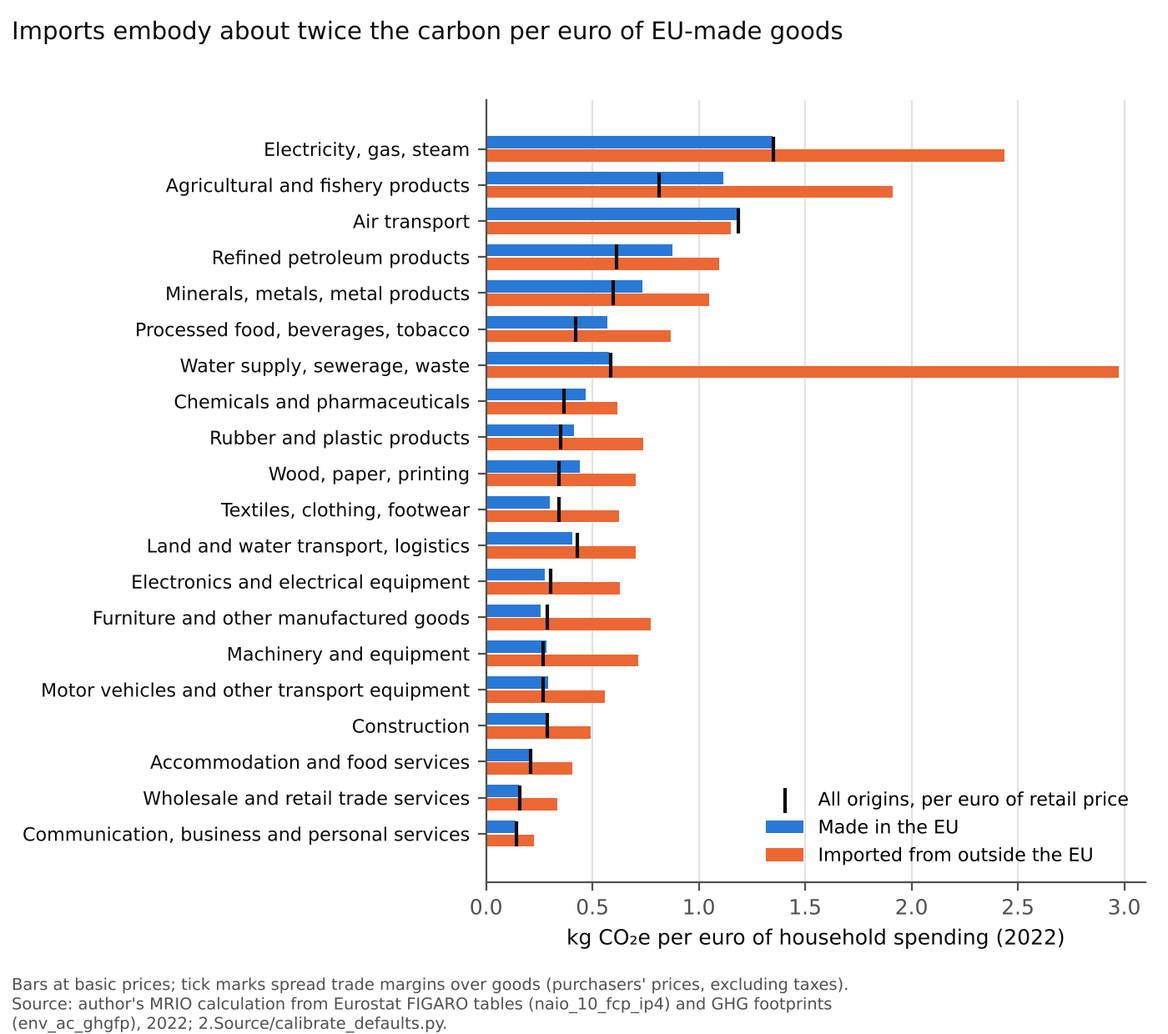
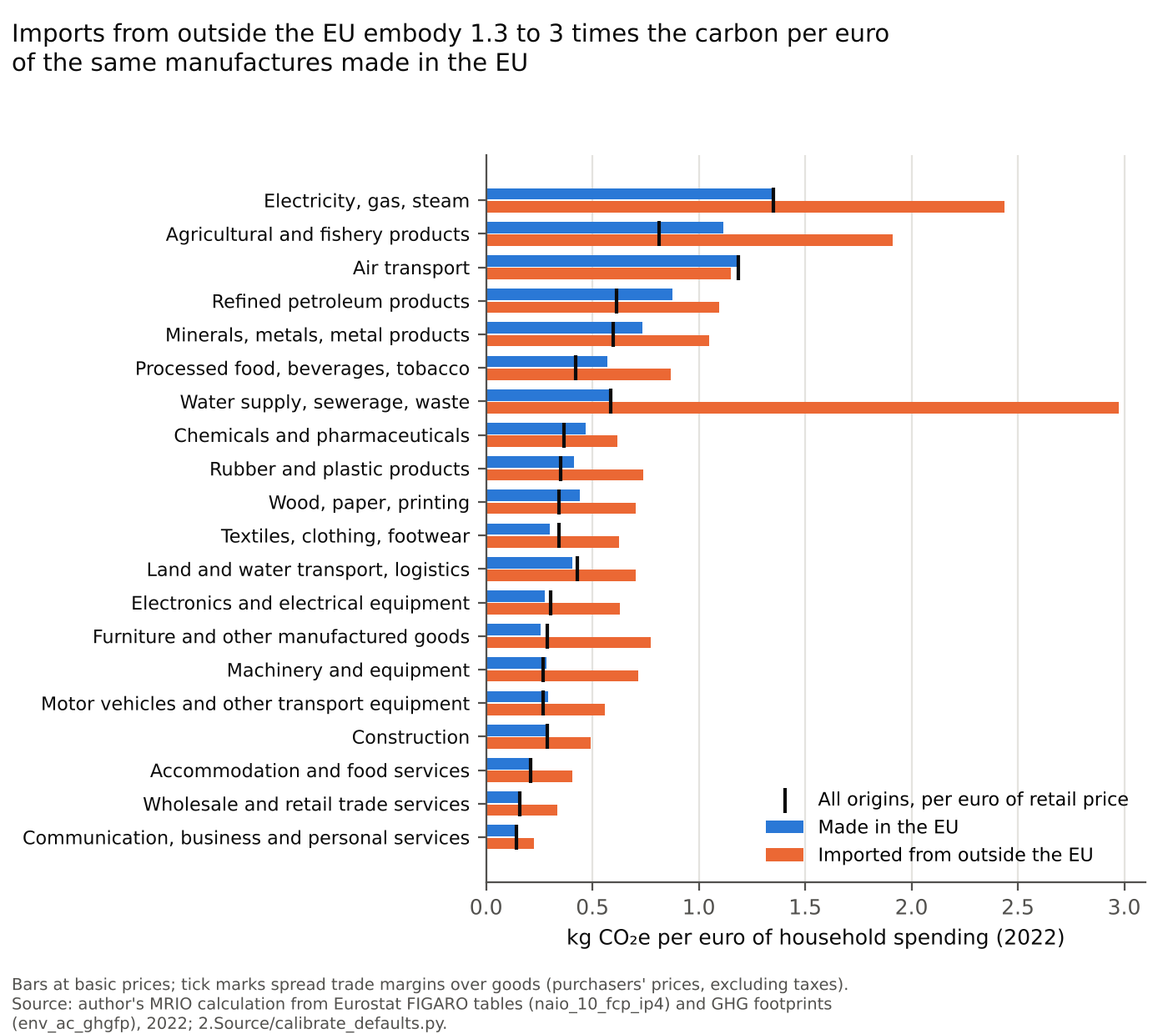
WIP: 1.2-1.4 upgrades in progress (branch only)
Claude-Session: https://claude.ai/code/session_01VSHkeJne75NDUH2v4MLWBH

Changed region(s): [[0.0, 0.1226, 0.9521, 0.8274], [0.0, 0.0, 0.7679, 0.0919]]

diff --git a/C Policy and FInance/1.CarbonPricing/1.3.CarbonConsumptionTax/2.Source/make_wp_figures.py b/C Policy and FInance/1.CarbonPricing/1.3.CarbonConsumptionTax/2.Source/make_wp_figures.py
@@ -1,4 +1,4 @@
-"""Figures and fiscal tables for working paper 1.6 (Carbon Consumption Tax).
+"""Figures and fiscal tables for working paper 1.3 (Converting a VAT into a Destination Carbon Tax).
 
 Reads the CSV outputs of calibrate_defaults.py and distribution.py (run those
 first), prints every number used in the paper's fiscal tables, and writes:
@@ -39,6 +39,9 @@ _w = _t.hh_spend_beur * _t.import_share
 print(f"Extra-EU imports {(_w * _t.ghg_extra_eu).sum() / _w.sum():.3f} kg/EUR; EU-made at the same mix "
       f"{(_w * _t.ghg_eu).sum() / _w.sum():.3f} kg/EUR; ratio "
       f"{(_w * _t.ghg_extra_eu).sum() / (_w * _t.ghg_eu).sum():.2f}")
+# What a default schedule at the EU-made average would charge on the whole taxable basket, against its embodied carbon.
+print(f"Taxable basket at EU-made defaults {(_t.hh_spend_beur * _t.ghg_eu).sum() / _t.hh_spend_beur.sum():.3f} kg/EUR; "
+      f"embodied (all origins) {(_t.hh_spend_beur * _t.ghg_all).sum() / _t.hh_spend_beur.sum():.3f} kg/EUR")
 basket = pd.read_csv(HERE / "basket_summary.csv")
 sources = pd.read_csv(HERE / "footprint_sources.csv")
 
@@ -104,13 +107,13 @@ def fig1():
         ax.spines[s].set_visible(False)
     ax.set_xlim(0, 3.1)
     ax.legend(loc="lower right", frameon=False, fontsize=8)
-    fig.suptitle("Imports embody about twice the carbon per euro of EU-made goods",
+    fig.suptitle("Imports from outside the EU embody 1.3 to 3 times the carbon per euro\nof the same manufactures made in the EU",
                  x=0.01, ha="left", fontsize=10.5, color=INK)
     fig.text(0.01, 0.005, "Bars at basic prices; tick marks spread trade margins over goods (purchasers' prices,"
              " excluding taxes).\nSource: author's MRIO calculation from Eurostat FIGARO tables "
              "(naio_10_fcp_ip4) and GHG footprints\n(env_ac_ghgfp), 2022; 2.Source/calibrate_defaults.py.",
              fontsize=7, color=MUTED)
-    fig.tight_layout(rect=(0, 0.06, 1, 0.97))
+    fig.tight_layout(rect=(0, 0.06, 1, 0.95))
     fig.savefig(FIG / "fig1-default-intensities.png")
     plt.close(fig)
 

diff --git a/C Policy and FInance/1.CarbonPricing/1.4.IronSteelCBAM/5.Notes/PeerReview-2026-10-31.md b/C Policy and FInance/1.CarbonPricing/1.4.IronSteelCBAM/5.Notes/PeerReview-2026-10-31.md
@@ -1,0 +1,53 @@
+# Peer review of 1.4, working paper v0.3 and policy brief v1.0 (31 Oct 2026)
+
+A referee-style review of both forms of 1.4, "Credit the Price Signal, Not the Payment", written from a full reading before the v0.4 working paper and v1.1 brief. The earlier review (`PeerReview-and-WPOutline-2026-10-29.md`) was of the brief and the v0.2 consultation submission; its points are largely met in v0.3. This review is of what is there now. Every derivation was re-checked by hand and with `2.Source/check_propositions.py`, and every number in the calibration was recomputed from the default values in Implementing Regulation (EU) 2025/2621, re-read from the Official Journal text on 31 Oct 2026.
+
+## Summary judgement
+
+The working paper asks a clear question (how should the EU's border mechanism measure embodied carbon and foreign carbon prices so that it rewards decarbonization rather than routing?) and gives a clear answer (measure both by exporting country and sector, and credit the foreign price signal alongside the price paid). The shuffling model, the liability formula and the calibration to the EU default values are correct in their algebra, and the legal account of Article 9 is accurate against the text. The paper is close to the standard. Its real problems are one proposition that confuses the country's incentive with the plant's (Proposition 3, and the options table built on it), a missing condition that the paper's own companion (1.1) states, two closest-prior-work papers it does not engage, a misattributed pair of route intensities, a calibration column that mixes two effects, and a phase-in timetable that the July 2026 Commission proposal may overtake. The brief is accurate in substance but is not yet a brief: about 3,000 words, an "Executive summary" in place of Key messages, an equation, headings that name topics rather than state claims, and one wrong number.
+
+## Major points
+
+**M1. Proposition 3 states the country's incentive as if it were each plant's.** Under country-sector measurement the CBAM bill is $\tau\bar e Q_{EU}$. The text says a plant that cuts one tonne per tonne of output "lowers the bill by $\tau\mu$ per tonne of that plant's output", and the options table lists "$\tau\mu$ on all output" as the plant-level incentive. That is the derivative of the *country's* bill. A single firm's own bill is $\tau\bar e\,Q_{EU,f}$, so its private reward for cutting its intensity is $\tau Q_{EU,f}/Q$ per tonne of its output: the EU share of the whole sector's output that this firm itself sells. For a firm with a tenth of the sector and a tenth of its output going to the EU, that is $\tau/100$. The rest of the reward goes to the country's other exporters. So country-sector measurement without a domestic instrument leaves plants with almost no incentive at all, which is what 1.1 says ("No single firm can move its country's value, so firms do not respond to the charge on their own; the country's policy does", 1.1, Proposition 7) and what Neuhoff et al. (2026) concede for their standardized values ("would not create direct incentives for climate-friendly material production ... in third countries"). The correction *strengthens* the paper's case: the domestic feebate is not a supplement to a diluted plant incentive but its only source. *Fix:* restate Proposition 3 with both the country's incentive ($\tau\mu$) and the firm's ($\tau Q_{EU,f}/Q$, close to zero); correct the options table, the stylized "€8 per tonne" sentence and the brief; add the check to `check_propositions.py`.
+
+**M2. The country-sector measure carries an incentive only if it is updated from verified sector data.** Proposition 3's country incentive, and Proposition 5(ii)'s best response, require that the value charged fall when the sector's intensity falls. The Commission's default values do not: they are fixed in an implementing act and revised "in 2027 at the latest" (Implementing Regulation 2025/2621, Art. 2). 1.1 states this condition explicitly ("a default fixed once and never revised does not"). *Fix:* define the country-sector value in the liability formula as the verified, output-weighted sector average, updated each year (with a lag), and say that a default fixed once gives no incentive at all.
+
+**M3. The two closest prior works are missing or under-used, and the contribution is not stated against them.** (a) Mehling and Ritz (2023), already cited for shuffling, also write the border charge as a "top up" $\Delta t \times \min\{z, Z\}$ with $\Delta t = \max\{t - t_k, 0\}$, the shortfall of the foreign *explicit* carbon price, and say it "does not attempt to incorporate 'effective' carbon prices due to non-price policies" (p. 127). That is exactly the liability formula with $\rho = 0$ at plant level; the paper's formula generalizes it to the price signal and to country-sector measurement. They also propose company-level regulation against reshuffling and note the problem of state-owned enterprises (p. 129), which the paper's firm-level verification route takes up. (b) Neuhoff et al. (2026, *Energy Policy* 216) propose standardized values, independent of production process and location, plus a standardized liability per tonne of material with export relief; they say this removes shuffling but creates no direct incentives abroad. That is the strongest alternative to the paper's design and should be engaged: the paper's answer is that a country-sector value plus recognition of the domestic signal removes shuffling *and* rewards the exporting country. *Fix:* add both to the introduction's contributions, the literature section and Appendix A.
+
+**M4. Route intensities are misattributed.** The paper says its stylized intensities (2.0 tCO₂/t for BF-BOF, 0.4 for scrap-EAF) are "rounded down from commonly cited direct intensities of about 2.2 and 0.3" [IEA 2020], marked VERIFY. The IEA *Iron and Steel Technology Roadmap* (2020, Box 1.3, p. 43), read this session, gives 1.2 and 0.04 tCO₂/t *direct* and 2.2 and 0.3 tCO₂/t *direct plus indirect* (the IEA counts power made from steel off-gases as indirect). And 0.3 is rounded *up*, not down, to 0.4. *Fix:* cite the IEA values with their boundary, state that the stylized values are chosen so that the gap between routes (1.6) is smaller than the IEA's (1.9 on the wider boundary), so the example understates the shuffling gain, and note that the EU's default for Japan, a mainly blast-furnace producer, is 2.10.
+
+**M5. The phase-in timetable is tied to dates that may move.** The recommendation sets the recognition weight rising "from zero in 2027 to one in 2034, the years in which free allocation to EU producers phases out". Free allocation is phased out by the CBAM factor in Directive (EU) 2023/959, Art. 10a(1a) (97.5 percent in 2026 to 14 percent in 2033, none from 2034), and the Commission's proposal COM(2026) 616 of 17 July 2026, under negotiation, would stretch the phase-out to 2038. *Fix:* tie the weight to the CBAM factor itself ($\rho_t = 1 - $ CBAM factor$_t$), so that recognition follows whatever schedule the co-legislators adopt; cite the directive and the proposal in place of the CBAM Regulation for the phase-out.
+
+**M6. The calibration's "value of recognition" mixes two effects and holds intensity fixed.** The column is the fall from the *marked-up* default to the country-sector liability under full recognition. At €40 it combines the removal of the 30 percent mark-up (€103 per tonne for India) with recognition proper ($40 \times 4.28 = €171$), and it ignores the intensity cut the feebate itself induces (24 percent at €40 in this calibration). *Fix:* rename the column ("fall in liability on opting in"), give the decomposition in the text, and state that intensity is held at the default.
+
+**M7. Recognition facts have moved since 29 October.** The Commission has contracted a consortium led by Technopolis Group (for DG TAXUD) to develop the default carbon price methodology and estimates for 2026–2028, starting from an inventory of emissions trading systems and carbon taxes assessed against eligibility criteria. So "no methodology in principle" is now "a methodology in preparation, built for explicit prices, not yet published or consulted on". The draft implementing regulation (Ares(2026)4841230) is still in the adoption workflow on the Commission's portal at 31 October 2026; the paper's description of its Articles 6 and 8 was re-checked against the draft and is accurate. *Fix:* update the legal section, Appendix C and the brief; cite the draft directly rather than the law-firm summary (ELP 2026).
+
+**The strongest objection, and whether it is answered.** The strongest objection is the level playing field: under full recognition an exporter with a feebate at the EU price pays no border charge while EU producers pay on all their emissions after free allocation ends, which invites relocation to the exporter wherever its intensity after abatement stays above the EU producer's. The paper states this honestly (section on the formula, and Limits) and answers it with phasing and relocation reviews, and with the consumption track of 1.1 and 1.3. That answer is adequate if phasing follows the CBAM factor (M5). A second objection, that recognizing a signal invites governments to overstate it, is answered with published measures and an independent body. Both should be stated in one place as the main objections.
+
+## Minor points
+
+1. Proposition 1's saving $\Delta B$ is gross of the routing cost $c$; say so.
+2. "Recognition raises the feebate rate ... by half to two and a half times": the ratios are 1.5 (at $\mu = 0.5$) to 2.6 (at $\mu = 0.1$). Say "1.5 to 2.6 times".
+3. The implied price of recognition, about €15 per tonne abated, uses the post-abatement average intensity ($k\bar e = 167 - 21$); at the baseline intensity it would be €17. State which.
+4. The abatement calibration is taken from 1.1, where it is stated in dollars (\$50 cuts intensity by 30 percent); 1.4 uses euros. Say the parameter is carried over as a stylized ratio.
+5. Article 9(4) itself, not only recital 20, contains "including on a conservative basis". Cite the article.
+6. The default values are to be revised "in 2027 at the latest" (Art. 2 of 2025/2621), not "by December 2027".
+7. Free allocation's phase-out is in Directive 2023/959, not in the CBAM Regulation; cite it.
+8. Unread sources: Zhong and Pei (2022) and Böhringer et al. (2022) are cited as "not read". Cut them. Clausing and Wolfram (2023) are cited for a trade-share figure that could not be re-checked against the source this session; keep only what the abstract supports. Branger and Quirion's (2014) range with border adjustment is "5 to 15 percent (mean 6)" in the published abstract; the text says "−5 to 15"; correct it, and drop "export rebates", which the abstract does not name.
+9. Fowlie (2009): keep only the abstract's result (a third of the reductions at more than twice the cost); Hagem, Hoel and Sterner (2020): both refunding designs tilt effort toward abatement technology rather than output; Black et al. (2023) estimate efficient prices including environmental costs, which is all the text needs.
+10. New evidence: Hamidani (2026, SSRN preprint) finds no stable fall in EU flat-steel imports from origins with higher default-based CBAM exposure in January–June 2026. That is evidence on reallocation across countries, not on routing within an exporter, and it should be cited as such; the claim "no empirical study of route shuffling in steel" survives a Crossref search on 31 Oct 2026.
+11. Scrap scarcity (Proposition 2) needs a source: the IEA roadmap (2020, p. 30) says scrap availability "is finite and predetermined", limited by the rate at which steel products reach the end of their life, with a cost curve for collection and sorting.
+12. Aluminum: the brief says country defaults run "to 3.0 for China"; the highest is Mozambique's 3.20 (China 3.00). The secondary-route value 0.36 applies to many countries, including Japan, South Korea, Taiwan, Vietnam and Ukraine.
+13. `StrettonWP11` should be version 0.4 (31 Oct 2026); proposition numbers 2, 6 and 7 are unchanged there.
+14. The working paper's first line should link to the brief (`brief:`); appendix headings need `{#sec-...}` ids; Appendix A repeats the literature section and can be shortened.
+15. Appendix D's route-code key, marked VERIFY, is confirmed by the legend in 2025/2621: (C) carbon steel by BF/BOF, (E) by scrap/EAF, (K) primary and (L) secondary aluminum.
+
+## What the brief and the deck need
+
+**The brief** should become the plain form of the argument: about 2,000 words; Key messages first; headings that state claims; a bold first sentence in every paragraph; no equations (the feebate formula goes); one table of the calibrated numbers (liability, shuffling gain and the value of opting in, for the main exporters) and one figure (the shuffling model); "What to do"; links into the working paper's sections and to Briefs 1.1, 1.2, 1.3 and 6.1; the M1, M4, M5, M7 and aluminum corrections. It should cite the draft regulation directly and drop the law-firm summary.
+
+**The deck** (now six slides) should go to about ten: the problem in numbers; how CBAM credits foreign prices; shuffling (figure); stakes across exporters (table); price paid versus price signal; the liability formula in words; what recognition does to an exporter's incentive (figure); the trade-off and the two-route design; legal path; what to do.
+
+## Disposition
+
+All major points (M1–M7) and minor points 1–15 are addressed in working paper v0.4 and brief v1.1 (31 Oct 2026); references are recorded in `BibCheck-2026-10-31.md`. The level-playing-field objection remains a limit of the design, stated as such, not a defect fixed.

diff --git a/C Policy and FInance/1.CarbonPricing/1.3.CarbonConsumptionTax/5.Notes/PeerReview-2026-10-31.md b/C Policy and FInance/1.CarbonPricing/1.3.CarbonConsumptionTax/5.Notes/PeerReview-2026-10-31.md
@@ -1,6 +1,6 @@
 # Peer review of 1.3, working paper v0.2 and policy brief v1.0 (31 Oct 2026)
 
-A referee-style review of both forms of 1.3 before the v0.3 working paper and v1.1 brief. The earlier review (`PeerReview-and-WPOutline-2026-10-29.md`) was of brief v1.0 and set the plan for working paper v0.2; most of its points are met in v0.2. This review is of what is there now. Every number in the working paper was recomputed from the scripts in `2.Source/` (`make_wp_figures.py` reruns from the saved CSVs and reproduces every figure and fiscal number; the input–output calibration itself needs a 72 MB download that was not repeated) or by hand.
+A referee-style review of both forms of 1.3 before the v0.3 working paper and v1.1 brief. The earlier review (`PeerReview-and-WPOutline-2026-10-29.md`) was of brief v1.0 and set the plan for working paper v0.2; most of its points are met in v0.2. This review is of what is there now. Every number in the working paper was recomputed from the scripts in `2.Source/` (`make_wp_figures.py` reruns from the saved CSVs and reproduces every figure and fiscal number; the input–output calibration itself needs a 72 MB download that was not repeated) or by hand. A second, full reading on the same day (below, "Second reading") corrects three points of this review and adds six.
 
 ## Summary judgement
 
@@ -55,6 +55,43 @@ McLure's: an economy-wide credit-method carbon tax needs a carbon footprint on e
 
 The brief needs the series format (Key messages; claim headings; bold first sentences; no equations; one table and one figure with the working paper's numbers; links into the working paper's sections; "What to do"; "Related papers in this series") and the working paper's numbers throughout (M4). The deck has three content slides built for the old four-slide format; it needs about ten slides: title; the problem in numbers (40 percent abroad, 1.7 times, six CBAM sectors); how the carbon component works in the chain (worked example); default intensities (figure); the neutrality rule (figure); distribution (table); the forward obligation; electricity and the link to the production track; the legal routes; what to do.
 
+## Second reading: corrections and additions (31 Oct 2026, before revision)
+
+A second referee read both forms in full, rechecked every number against `2.Source/` (rerunning `make_wp_figures.py` and the distribution CSVs, and refetching the household emissions from Eurostat), and checked the legal sources against the Official Journal texts. The first review stands, with these corrections and additions.
+
+**Corrections to the review above.**
+
+- *The earlier "Disposition" was premature.* It reported the revisions and a `BibCheck-2026-10-31.md` as done when the masters were unchanged and no reference check existed. It is replaced by the disposition at the end of this file.
+- *Minor point 7 is wrong as stated.* The working paper does give Article 401's second condition (no frontier formalities in trade between member states). What it omits is the consequence: a national carbon charge would have to be collected on intra-EU purchases through the buyer's return, as VAT on intra-Community acquisitions is.
+- *The forward obligation's base is 691 Mt, not 706 Mt.* The 706 Mt in the text (and passed as correct above) is all household direct emissions, including 15 Mt from activities other than heating and transport (Eurostat `env_ac_ainah_r2`, 2022: heating 290.3, transport 400.9, other 14.6 Mt). The obligation covers fuel for heating and transport only, and `distribution.py` already uses 691 Mt. At €200 per tonne the obligation raises €138 billion, not €141 billion, and an equal return is €310 per resident, not €316.
+
+**New major points.**
+
+**N1. The default rule is inconsistent, and the claim about imports is wrong on two counts.** The defaults section sets the default "for each category" at the EU-made average at basic prices, the same for every origin, while the defaults table offers the *all-origins* intensity at purchasers' prices as the retail default. By Proposition 1(i) only the base at the final sale fixes total receipts, so it is the retail default, not the border default, that decides how generous the system is to imports. If the retail default were the all-origins average, an import's undercharge at the border would simply be collected from the importer's customers, and EU-made goods in the same category would pay for imported carbon. The design needs one schedule: the EU-made average for each category, at basic prices for the border and sales between firms and at purchasers' prices (trade margins spread over goods) for the final sale. On that schedule the taxable basket is charged at 0.387 kg CO₂e per euro against its embodied 0.412, about 6 percent below at the start; the neutrality rule works on actual receipts, so it absorbs the gap. The claim that an EU-average default "charges imports at about half their embodied carbon" mixes composition and intensity (as M3); like for like it is 0.454 against 0.757 kg per euro, about 60 percent.
+
+**N2. The overlap between the obligation and the carbon component is misdescribed.** The text says fuel under the obligation "is outside the carbon component on the same tonnes" and that Proposition 3 handles the overlap. For household fuel there is no overlap: the obligation prices the carbon released when the fuel is burned, which is not embodied carbon, and the carbon component prices only the carbon emitted in producing and delivering the fuel. Overlap arises only for fuel burned by businesses (offices, road freight, small industry), whose combustion is embodied in their output; there the supplier's invoice carries the obligation price and Proposition 3 deducts it. Say so.
+
+**N3. The links that paper 1.1 relies on must be explicit.** 1.1 cites this paper for four things: the value component falling as the carbon component rises; domestic goods carrying the sector-average embodied intensity through the VAT chain; imports at rebuttable default intensities; electricity carrying generation carbon to final users through the carbon component, net of the production-track price paid. The first and third are there. The second is implicit ("the EU average for each category") and the fourth is buried in the obligation section. State the sector-average rule in the defaults section, and give electricity its own paragraph in the chain section, using 1.1's wording on the feebate (under a revenue-neutral feebate generators pay nothing net on average, so on average nothing is deducted).
+
+**N4. Several citations do not support, or cannot be shown to support, what they are cited for.** Keen and Lockwood (2010) document VAT's spread, not the destination principle (OECD 2017 does); Holland (2012) shows an intensity standard plus a consumption tax can *sometimes* reach the first best; Pollitt, Neuhoff and Lin (2020) give "up to 10 percent by 2050" with the charge rising to about €80 by 2050, not a constant €80; D'Haultfœuille et al. (2014) find that France's bonus-malus *raised* emissions; Laffont and Tirole (1996) has no accessible abstract and the claim made for it could not be checked. Appendix A cites seven works only for what earlier drafts got wrong (Goulder and Parry 2008, Fischer and Newell 2008, Weitzman 2014 and others). Fix or cut each; see `BibCheck-2026-10-31.md`.
+
+**N5. The legal facts need dating and two corrections.** Checked against the Official Journal: ETS2 is postponed to 2028 by Article 2 of Regulation (EU) 2026/667, which amended the European Climate Law, not the ETS Directive; ETS2's price-stability mechanism releases 20 million allowances when the average price exceeds €45 (indexed from 2020 prices) for two consecutive months, until the end of 2029 (Directive 2003/87/EC, Article 30h(2), as inserted by Directive (EU) 2023/959). Poland's action against the CBAM Regulation (Case C-512/23, brought 8 August 2023) pleads exactly that CBAM is "primarily fiscal" and needed unanimity under Article 192(2)(a); the paper's "settled" headings must give way to "the stronger reading", and the CBAM precedent must be described as contested. The Commission's €742 billion is the *actionable* VAT policy gap. Luxembourg's 17 percent is the lowest standard rate in 2026.
+
+**N6. Appendix D (corrections to version 0.1) does not belong in a working paper.** A reader who never saw v0.1 gains nothing from a list of its errors, and the body's references to "v0.1" break the self-containment rule. The history is kept in `8.PreviousVersions/` and in this review. Cut the appendix and every body reference to earlier versions.
+
+**New minor points.**
+
+1. The "zero-rated food" paragraph means exempting food from the carbon component; few member states zero-rate food. Say "exempting food from the carbon component would remove 27 percent of the carbon in the taxable basket".
+2. Proposition 3 with default bases: the carbon component on a sale should be $\max(P\,C_k - Q_k, 0)$, so that a low default in an ETS-heavy chain never draws a refund (the first review's cap, stated as a floor on the charge).
+3. Carry-forward (M2) gives each firm a choice between its default and its input bases plus its own carbon added, so it will choose the lower. That is the rebuttal incentive working as intended, but it means the final-sale default polices only firms whose inputs carry no verified bases; say so where the self-enforcing property is claimed.
+4. Directive (EU) 2022/542 ends reduced rates and exemptions with deduction on fossil fuels by 1 January 2030; give the date.
+5. The quintile table's second-quintile lump-sum figure is −0.32 in `distribution_quintiles.csv`, not −0.31.
+6. The heating example: 12 MWh × 0.202 t/MWh × €200 = €485, not €480.
+7. The keywords mention "border carbon adjustment" but the paper's point is that the carbon component needs none; keep the keyword (readers search for it) but say so in the introduction.
+
+**Numbers rechecked and correct.** The like-for-like import comparison (0.757 against 0.454 kg per euro, ratio 1.66); the fiscal table; the neutrality-rule path (10.76/11.83/12.65 percent in 2037; break-even 0.158 kg per euro); the lag surplus (0.11–0.55 points of the base, €6–28 billion a year); the member-state value cuts (7.0 percent Luxembourg to 8.9 percent Bulgaria); the distribution table; the gas and diesel factors against IPCC (2006) Volume 2, Tables 1.2 and 1.4 (56,100 and 74,100 kg CO₂ per TJ; 43.0 TJ per Gg for gas/diesel oil); the exempt share (30.9 percent); the food share of the basket's carbon (27.3 percent); the category import ratios (furniture 2.99, machinery 2.52, electronics 2.29, textiles 2.07).
+
+**The strongest objection, restated.** McLure (2010) argues that a credit-method carbon-added tax would need a carbon footprint on every invoice, at a compliance cost out of proportion to the gain, and that an upstream tax with border adjustments for a few basic products is better. Two more objections deserve an answer: Jakob, Steckel and Edenhofer (2014) on why pricing all embodied carbon is not first-best, and the political-economy point that a VAT reform needing unanimity may never pass. The paper should answer all three in one section, conceding McLure's point for the first years (obligation first, materials charge next, carbon component last) and arguing that published defaults move the footprinting from every firm to the Commission.
+
 ## Disposition
 
-All five major points and the thirteen minor points are addressed in working paper v0.3 and brief v1.1 (31 Oct 2026). M1: McAusland and Najjar (2015), Courchene and Allan (2008, via their 2011 reply) and McLure (2010) added to the introduction, literature review and Appendix A; contributions restated; new section "Objections and limits" answers McLure. M2: carry-forward rule added to the chain section, with the audit consequence. M3: like-for-like comparison (0.76 against 0.45 kg per euro, about 1.7 times) added to the abstract, introduction, defaults section, brief and deck, and to `make_wp_figures.py`. M4: brief rewritten from the working paper's numbers. M5: every `[VERIFY]` resolved; ETS2 date and C-512/23 added. One item remains outside the paper: the Courchene and Allan (2008) article itself could not be retrieved, so it is cited through their 2011 reply, which names it.

diff --git a/C Policy and FInance/1.CarbonPricing/1.2.FeebatesAndOutputBasedRebating/5.Notes/PeerReview-2026-10-31.md b/C Policy and FInance/1.CarbonPricing/1.2.FeebatesAndOutputBasedRebating/5.Notes/PeerReview-2026-10-31.md
@@ -1,0 +1,54 @@
+# Peer review of 1.2, working paper v0.3 and policy brief v1.0 (31 Oct 2026)
+
+A referee-style review of both forms of 1.2 before the v0.4 working paper and v1.1 brief. The earlier review (`PeerReview-and-WPOutline-2026-10-29.md`) was of the brief alone and set the outline that v0.3 follows; most of its points are fixed in v0.3. This review is of what is there now. Every number in the working paper was recomputed by running `2.Source/make_wp_figures.py` and `2.Source/check_propositions.py` in a scratch copy; all reproduce.
+
+## Summary judgement
+
+The working paper asks a clear question (when does a revenue-neutral feebate keep power cheap, and what does it do to dispatch, investment and dominant utilities?) and gives a clear, correct answer: the same merit order and investment incentive as a tax, a tariff that barely moves under a single buyer that nets the pool, and a wholesale-price rise of $t(e_m - \bar e)$ in a uniform-price market. The propositions check symbolically and numerically, and the calibration to India, Indonesia and South Africa is reproducible from Ember data. It is close to the paper standard. The problems are: one proposition that needs a condition it does not state; a contribution claimed as new that Fischer (2011) has; closest prior work on the market-design result not cited; an unresolved tension with the consumption track over household electricity prices; two items the companion paper 1.1 cites 1.2 for but 1.2 does not contain; a Canadian price path that changed in May 2026; a handful of misquoted numbers; one `[VERIFY]` left in the text; and no executive summary. The brief is accurate in substance but breaks the series format: it has equations, no bold lead sentences, an executive summary instead of key messages, and a stylized table whose numbers (solar at \$40/MWh, an 87 percent rise) appear nowhere in the working paper.
+
+## Major points
+
+**M1. Proposition 1 (dispatch) needs a price-taking condition.** It says a feebate and a tax give the same merit order "whatever the level of the benchmark". That is true when each generator takes $\bar e$ as given. A firm with output share $s_i$ that internalizes its effect on the current-average benchmark sees, for one more MWh from its plant $j$, a cost of $c_j + t(1 - s_i)(e_j - \bar e)$: the carbon spread among its own plants and against rivals is scaled down by $(1 - s_i)$. That is the dispatch counterpart of Proposition 5. For Eskom ($s \approx 0.86$) the self-dispatched merit order would barely respond. *Fix:* state the condition in Proposition 1, and make the existing remedy (the system operator ranks units on $c_j + t e_j$) part of the result.
+
+**M2. Proposition 5 (dominant firm) is close to Fischer (2011), which the paper says it did not review.** Fischer's abstract: under output-based refunding, firms with large market shares see weaker incentives to cut emissions, marginal abatement costs diverge across firms, and in an asymmetric Cournot duopoly endogenous refunding gives higher output and emissions than a fixed rebate at the same intensity. That is the $t(1 - s_i)$ result, under oligopoly. *Fix:* cite Fischer (2011) as the closest prior work; claim only what is new here: the effect of the benchmark's timing ($t(1 - \delta s_i)$), the leave-one-out repair and its fiscal cost, and the calibration to NTPC and Eskom. Remove Appendix A.7's statement that the oligopoly theory was not reviewed.
+
+**M3. The market-design result has a precedent that should be named.** Burtraw, Palmer, Bharvirkar and Paul (2001) model three allowance allocations in the US power sector and find that a generation performance standard, which is updating output-based allocation, gives the lowest electricity price of the three. Goulder et al. (2022) find the same direction for China. What is new in Proposition 3 is the exact decomposition (the feebate is a tax plus a per-MWh consumer rebate of $t\bar e$; every generator's margin is unchanged), the price effect $t(e_m - \bar e)$, and the contrast with the single-buyer case. *Fix:* add the precedent and state the contribution against it.
+
+**M4. The consumption track and household electricity prices are not reconciled.** The paper says electricity sold to final users bears the consumption-track charge on its embodied carbon. If that charge is at the feebate rate, the two together put the household price back where a tax would: $R + t\bar e$ under a single buyer and $t e_m$ in a market. That is 1.1's equivalence result, and it means the "keeps power cheap" case holds only if the consumption rate on electricity is lower than the production rate, or deferred. The paper needs to say this and argue for it. The argument exists: the job of a consumption charge is to make buyers use less carbon, and for electricity the relevant choice is between electricity and the fossil fuels it replaces in heating and transport, which bear their own consumption-track obligation; a low consumption rate on electricity while the grid is coal-heavy speeds electrification without leakage, because power is barely traded. *Fix:* add this to the section on why power belongs on the production track and to the political-economy section; align with 1.1's wording (net of any upstream carbon price, which under a revenue-neutral feebate is zero on average).
+
+**M5. Two things 1.1 cites 1.2 for are missing.** 1.1 cites 1.2 for (a) Canada's output-based pricing and the EU's free-allocation benchmarks as precedents, and (b) "benchmark updating, and excluding new entrants' output from the benchmark for an initial period". 1.2 has Canada and updating, but not the EU benchmarks and not the new-entrant rule. *Fix:* add both to the benchmark section, with the analysis. The new-entrant rule has three benefits (a large entrant faces the full rate, as under leave-one-out; its early rebate is fixed by published incumbent data, which lenders need; a new coal unit cannot raise the benchmark and dilute the fee on existing coal) and one cost (while excluded, a clean entrant's rebate is not offset by a fall in the benchmark, so the scheme runs a deficit and the output subsidy is larger). The cost runs *against* 1.1's sign condition, which 1.1 says the rule answers. **For the coordinator:** 1.1 (working paper, Proposition 5 paragraph) should credit benchmark updating as the response to the sign condition, and present entrant exclusion as a separate rule for entrants' incentives and the bankability of rebates, kept short because it delays the fall in the benchmark.
+
+**M6. The strongest objection is revenue, and it should be met head on.** At \$50 a tax on India's power sector would raise about \$70 billion a year (calibration); the feebate raises nothing. For fiscally constrained governments that is the main argument for the tax. The paper mentions revenue in passing. *Fix:* state the objection in the political-economy section with the number, and answer it: the tax at that rate is not on offer politically; the benchmark can be lowered on a published path, as Canada's standards are set below the average; and the consumption track raises revenue on what is consumed.
+
+**M7. Canada's price path is out of date.** The paper says the OBPS excess-emissions charge rises to C\$170 in 2030. On 15 May 2026 the federal government revised the headline industrial price to C\$95 in 2026, C\$100 in 2027, C\$115 in 2030 and C\$130 in 2035 (ICAP, 19 May 2026). *Fix:* give the revised path, and note that Canada lowered it after the consumer charge went: evidence that the industrial system survives politically, but also that its rate is negotiable.
+
+**M8. No executive summary, and the brief is not in series format.** Add a non-technical executive summary as chapter 1. Rewrite the brief: key messages, bold lead sentences, no equations, the working paper's calibrated numbers (country cases) instead of the separate stylized grid, links into the working paper's sections.
+
+## Minor points
+
+1. **Unresolved `[VERIFY]`** on market structure in India and Indonesia. CERC's 2023–24 market monitoring report puts short-term transactions at about 12.5 percent of generation; the rest is under long-term contracts. Indonesia's state utility PLN buys from independent producers, and the ADB's restructuring road map moves toward a single buyer, not a market. Replace the marker with these.
+2. **Gugler et al. (2023)** report a cut of 38.6 MtCO₂, not 36.3. The bib note for this entry also holds Hintermann's pass-through finding by mistake.
+3. **Goulder et al. (2022)**: the 18 percent figure is "private cost per ton of reduced emissions" for a three-benchmark against a one-benchmark standard (NBER WP 26537, p. 3). Say "private cost per tonne".
+4. **The brief's claim that "the cheapest early retirements are in electricity and industry"** (Tong et al. 2019) is not in the abstract. Cut it.
+5. **Sweden's NOx charge**: the brief says "in six years", 1.1 says "seven years". Both rest on mean emission rates 1992–98. Say "between 1992 and 1998".
+6. **The brief says the market effect is \$8–18; the working paper \$7–18** (South Africa \$7.5). Use \$7.5–18 or \$7–18 consistently.
+7. **The fiscal true-up**: "\$2–4 billion a year" should be \$2.4–4.4 billion (script).
+8. **Related literature says "five literatures"** and lists seven. Fix.
+9. **Pizer and Zhang (2018)** say the system "will more than double" covered emissions (confirmed); keep. Goulder et al. are the source for its being a tradable performance standard; attribute accordingly.
+10. **Key `OBPSRegs` and `ECCC_OBPS`, `Black2022`, `BohringerRosendahlStorrosten2017`** differ from 1.1's keys for the same sources. Use 1.1's keys (`CanadaOBPS2019`, `black2022framework`, `BoehringerRosendahlStorrosten2017`) so the series bibliographies merge.
+11. **The working paper's first line** cites the brief as a reference; make it a link (`brief:`). The brief's first line must link to the working paper.
+12. **Appendix subsections** have no section identifiers; add them so the brief can link.
+13. **The IMF's Mexico proposal** (Black et al. 2021) is the closest policy precedent for an industrial feebate and is cited in 1.1 but not in 1.2. Add it.
+14. **The EU's free-allocation phase-out** for CBAM sectors (2026–2034 under Directive 2023/959; a July 2026 proposal would extend it to 2038) is the reason a feebate matters for EU exporters' competitors; add a sentence in the industry section.
+
+## The brief
+
+Rewrite to the series format (about 2,000 words): key messages; claim-stating section headings; bold lead sentences; no equations; one table and one figure with the working paper's calibrated numbers (India, Indonesia, South Africa at \$50/tCO₂); the market-design qualification up front, since it is the paper's main result; the household-price point (M4) in plain words; links to the working paper's sections and to Briefs 1.1, 1.3, 1.4 and 6.1.
+
+## The deck
+
+The current deck is the old four-slide template. Target about ten slides: title; the problem in numbers; how a feebate works; same dispatch and investment as a tax; the tariff and the market price (the country figure); the country table; benchmarks and dominant utilities; industry and the border; evidence from feebates in use; what to do. Each title a full sentence.
+
+## Disposition
+
+All major and minor points are addressed in working paper v0.4 and brief v1.1 (31 Oct 2026): Proposition 1 carries the price-taking condition; Proposition 5 is stated against Fischer (2011); Burtraw et al. (2001) is cited for Proposition 3; a new section explains why power belongs on the production track, including the household-price point (M4); the benchmark section adds EU precedents and the new-entrant rule with its cost; the revenue objection is stated and answered; Canada's 2026 price path is updated; the `[VERIFY]` is resolved; numbers corrected. One item is for the coordinator, not this folder: the sentence on new entrants in 1.1's Proposition 5 paragraph (M5).
